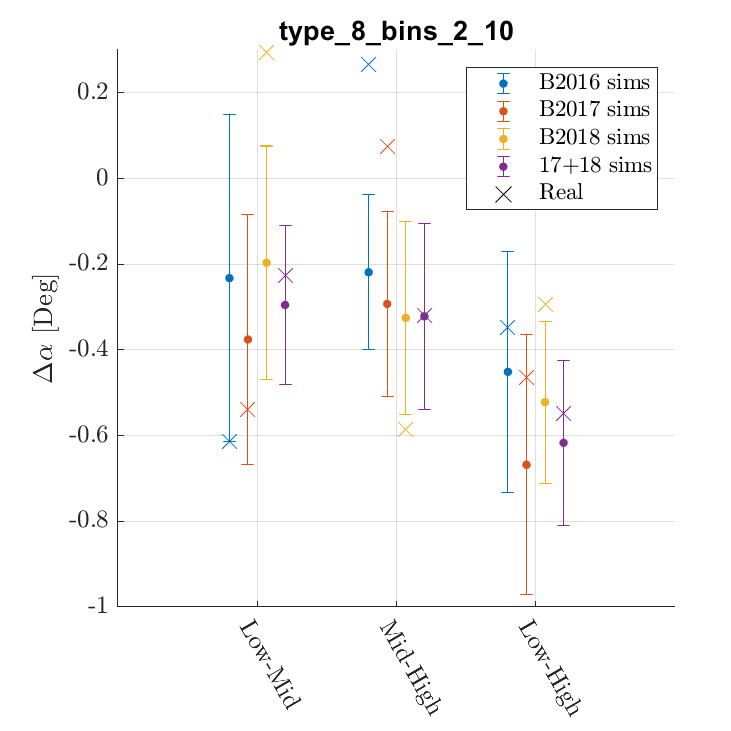
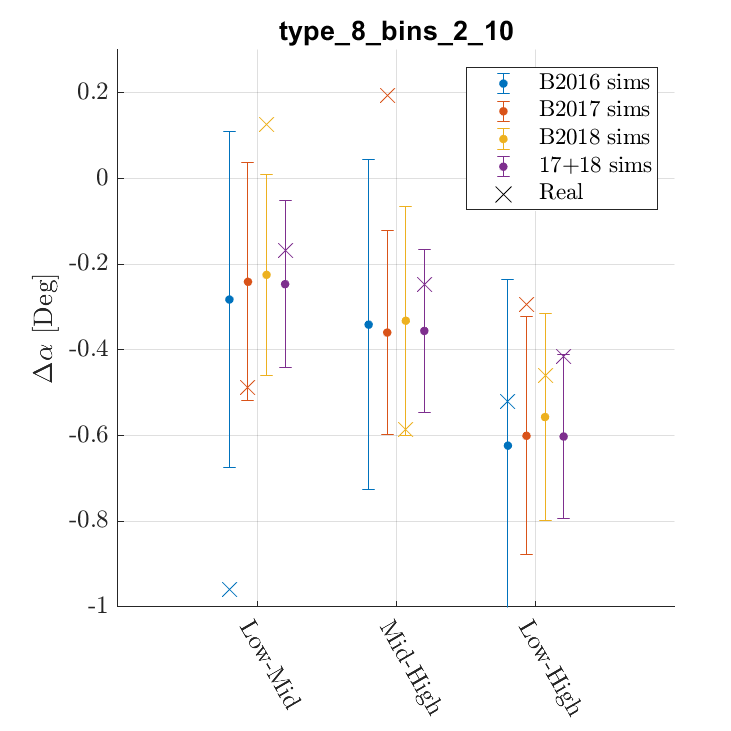
updated subset jacks with real data

diff --git a/2023mmdd_IPR_det_subset_jacks/index.html b/2023mmdd_IPR_det_subset_jacks/index.html
@@ -185,26 +185,26 @@ If we imagine a scenario where the ideal angles we currently use for CMB analysi
             </tr>
             <tr>
                 <td>B2016</td>
-                <td>0.271</td>
-                <td>0.113</td>
+                <td>0.235</td>
+                <td>0.188</td>
                 <td>0.054</td>
             </tr>
             <tr>
                 <td>B2017</td>
-                <td>0.100</td>
-                <td>0.087</td>
-                <td>0.014</td>
+                <td>0.193</td>
+                <td>0.065</td>
+                <td>0.015</td>
             </tr>
             <tr>
                 <td>B2018</td>
-                <td>0.236</td>
-                <td>0.074</td>
-                <td>0.003</td>
+                <td>0.169</td>
+                <td>0.107</td>
+                <td>0.011</td>
             </tr>
             <tr>
                 <td>17+18</td>
-                <td>0.057</td>
-                <td>0.070</td>
+                <td>0.102</td>
+                <td>0.031</td>
                 <td>0.001</td>
             </tr>
         </table>
@@ -230,26 +230,26 @@ If we imagine a scenario where the ideal angles we currently use for CMB analysi
             </tr>
             <tr>
                 <td>B2016</td>
-                <td>0.236</td>
-                <td>0.190</td>
-                <td>0.096</td>
+                <td>0.158</td>
+                <td>0.131</td>
+                <td>0.028</td>
             </tr>
             <tr>
                 <td>B2017</td>
-                <td>0.016</td>
-                <td>0.030</td>
-                <td>0.000</td>
+                <td>0.072</td>
+                <td>0.054</td>
+                <td>0.003</td>
             </tr>
             <tr>
                 <td>B2018</td>
-                <td>0.149</td>
-                <td>0.019</td>
-                <td>0.007</td>
+                <td>0.093</td>
+                <td>0.089</td>
+                <td>0.001</td>
             </tr>
             <tr>
                 <td>17+18</td>
-                <td>0.015</td>
-                <td>0.005</td>
+                <td>0.027</td>
+                <td>0.012</td>
                 <td>0.000</td>
             </tr>
         </table>
@@ -308,27 +308,27 @@ If we imagine a scenario where the ideal angles we currently use for CMB analysi
             </tr>
             <tr>
                 <td>B2016</td>
-                <td>0.235</td>
-                <td>0.188</td>
-                <td>0.054</td>
+                <td>0.958</td>
+                <td>0.021</td>
+                <td>0.394</td>
             </tr>
             <tr>
                 <td>B2017</td>
-                <td>0.193</td>
-                <td>0.065</td>
-                <td>0.015</td>
+                <td>0.813</td>
+                <td>0.010</td>
+                <td>0.135</td>
             </tr>
             <tr>
                 <td>B2018</td>
-                <td>0.169</td>
-                <td>0.107</td>
-                <td>0.011</td>
+                <td>0.067</td>
+                <td>0.829</td>
+                <td>0.344</td>
             </tr>
             <tr>
                 <td>17+18</td>
-                <td>0.102</td>
-                <td>0.031</td>
-                <td>0.001</td>
+                <td>0.344</td>
+                <td>0.284</td>
+                <td>0.164</td>
             </tr>
         </table>
         <figcaption>
@@ -353,27 +353,27 @@ If we imagine a scenario where the ideal angles we currently use for CMB analysi
             </tr>
             <tr>
                 <td>B2016</td>
-                <td>0.158</td>
-                <td>0.131</td>
-                <td>0.028</td>
+                <td>0.979</td>
+                <td>0.024</td>
+                <td>0.595</td>
             </tr>
             <tr>
                 <td>B2017</td>
-                <td>0.072</td>
-                <td>0.054</td>
-                <td>0.003</td>
+                <td>0.885</td>
+                <td>0.012</td>
+                <td>0.111</td>
             </tr>
             <tr>
                 <td>B2018</td>
-                <td>0.093</td>
-                <td>0.089</td>
-                <td>0.001</td>
+                <td>0.048</td>
+                <td>0.872</td>
+                <td>0.223</td>
             </tr>
             <tr>
                 <td>17+18</td>
-                <td>0.027</td>
-                <td>0.012</td>
-                <td>0.000</td>
+                <td>0.224</td>
+                <td>0.316</td>
+                <td>0.107</td>
             </tr>
         </table>
         <figcaption>
